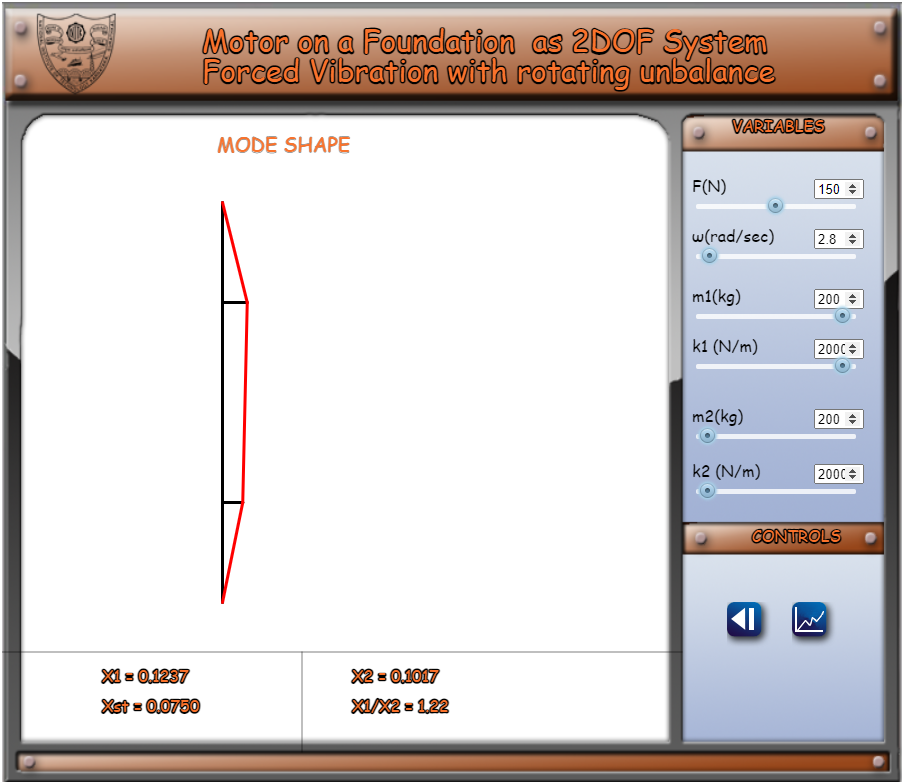
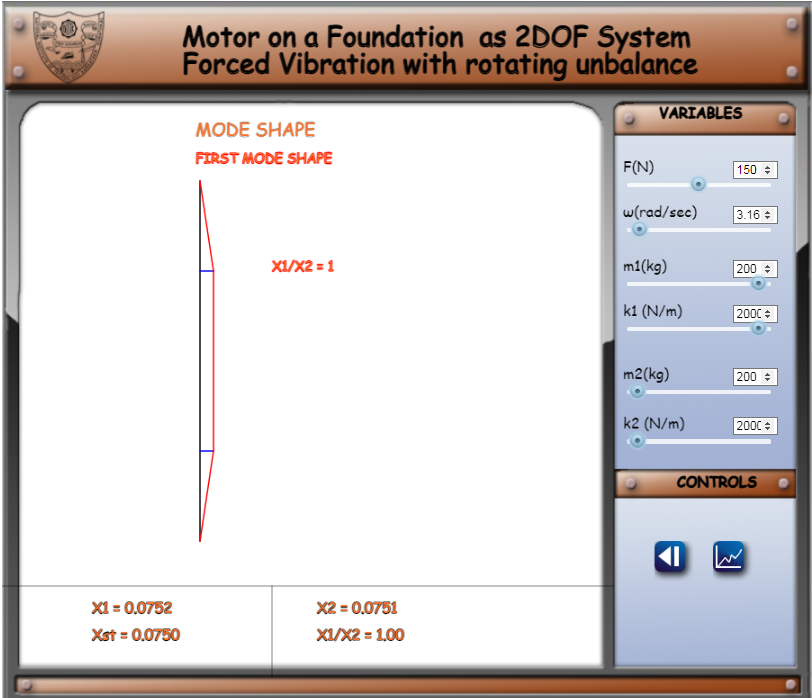
Updated Experiments

diff --git a/experiment/theroy.md b/experiment/theroy.md
@@ -1,0 +1,58 @@
+An electric motor as shown in Fig. 1, is used for power transmission. It consists of many parts such as stator and rotor, where the performance of motor depends on how precisely it's rotor is manufactured.
+A simple error wile manufacturing a rotor leads to unbalanced forces acting on the entire system, that creates unwanted vibrations.
+
+<center>
+
+![](Images/3.png)
+Fig. 1. Schematic of Motor
+</center>
+
+Now, to analyze the vibration of the motor with rotation of unbalance of mass is modelled as 2DOF system as shown in Fig. 2.
+<center>
+
+![](Images/4.jpg)
+Fig. 2. Schematic of motor of unbalanced mass as 2DOF a. Combined system b. Free body diagram
+</center>
+A two degree of freedom system can be defined as a system, that requires two independent variables to describe its position from the equilibrium. It has two equations of motion i.e., for two masses or for each degree of freedom. It introduces the coupling phenomenon where the motion of any one of the two independent coordinates is dependent on the other, through the coupling springs or dash-pots.
+Consider an ideal two degrees of freedom system as shown in Fig. 2, where the masses are constrained to move in the direction of the spring axes. Let x1 and x2 be the displacements of the masses at any instant measured from the equilibrium positions of these masses respectively, which are positive in the direction shown. Let’s assume *x* <sub>2</sub> > *x* <sub>1</sub>
+
+The governing differential equations are
+<center>
+
+![](Images/11.png)
+
+</center>
+Let,
+<center>
+
+![](Images/12.png)
+
+</center>
+where, X<sub>1</sub> - Amplitude of mass m<sub>1</sub>;
+<br>
+X<sub>2</sub> - Amplitude of mass m<sub>2</sub>
+<br>
+Substituting this in the governing equation,
+<center>
+
+![](Images/5.png)
+![](Images/6.png)
+
+</center>
+
+Where,
+<center>
+
+![](Images/8.png)
+![](Images/9.png)
+
+</center>
+
+where &omega;<sub>1</sub> is the first natural frequency <br>
+&omega;<sub>2</sub> is the second natural frequency
+
+<br>To observe resonance:
+1. Set the value of m<sub>1</sub> = m<sub>2</sub>
+2. Set the value of k<sub>1</sub> = k<sub>2</sub>
+3. Pause the simulation and enter the value of either &omega;<sub>1</sub> or &omega;<sub>2</sub>, which is shown below the animation.
+4. Resume the simulation to view in-phase or out of phase animation and mode shapes.

diff --git a/experiment/procedure.md b/experiment/procedure.md
@@ -1,7 +1,7 @@
 1. Clicking on the simulation tab brings the user to the first page of simulation as shown below.
 <center>
 
-![](images/1.png)
+![](Images/1.png)
 </center>
 Here the user can use the slider to set the values and the simulation of the spring-masss system will change accordingly.
 The comments section will show the first natural frequency &omega;<sub>1</sub> and second natural frequency &omega;<sub>2</sub>
@@ -11,7 +11,7 @@ The comments section will show the first natural frequency &omega;<sub>1</sub> a
 
 <center>
 
-![](images/2.png)
+![](Images/2.png)
 </center>
 
 The comment section shows X<sub>1</sub> and X<sub>2</sub> which are the amplitudes of two masses respectively and their ratio.
